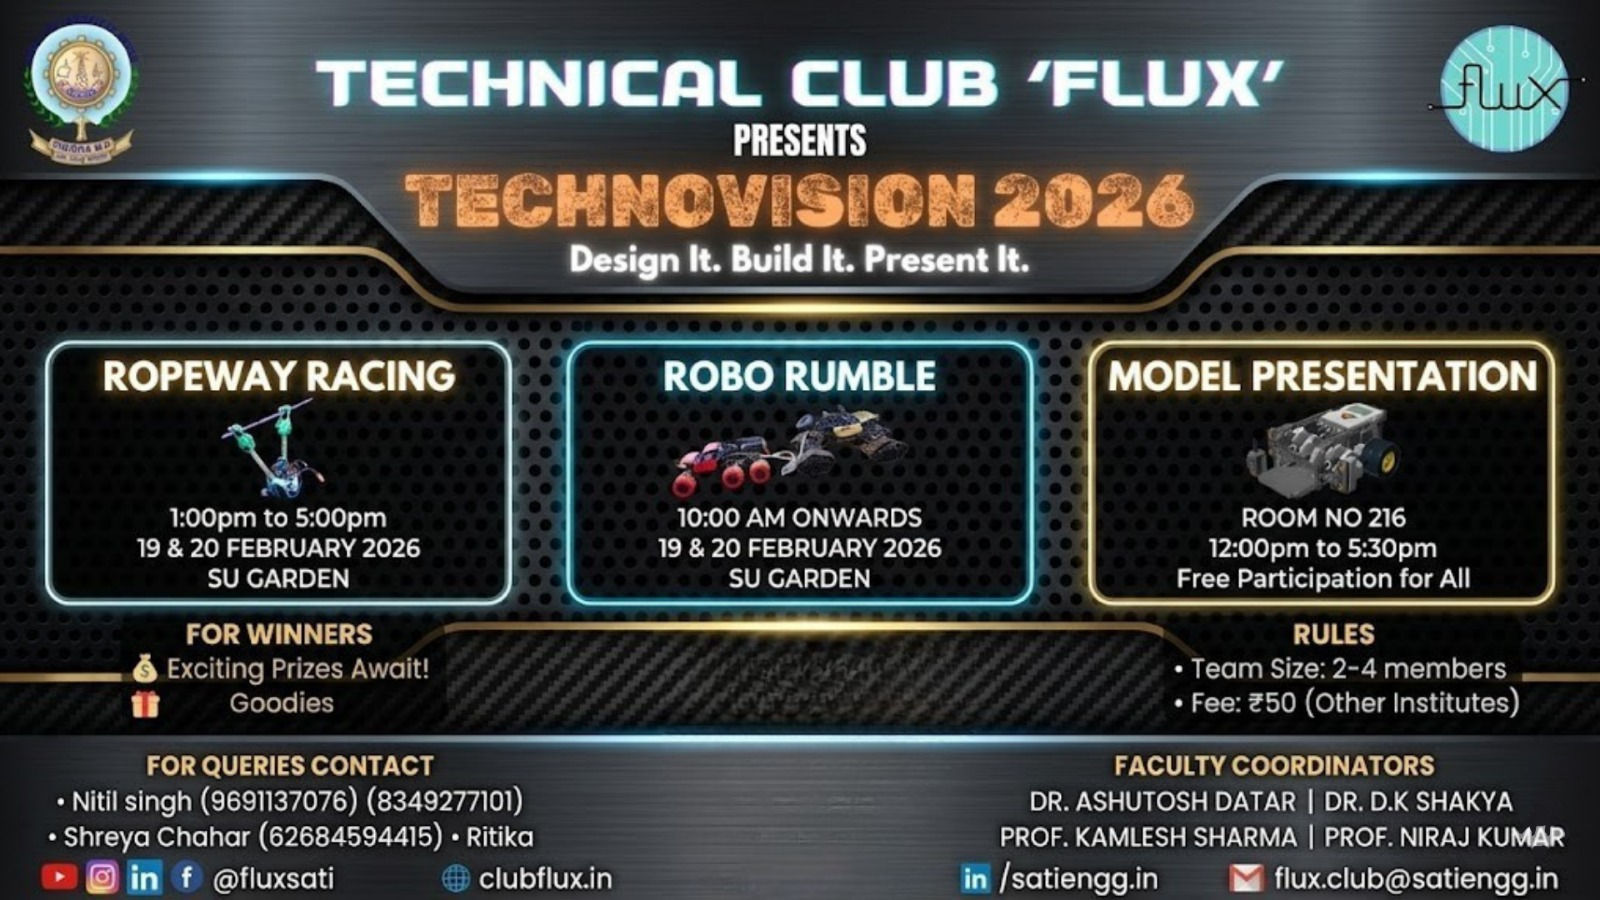
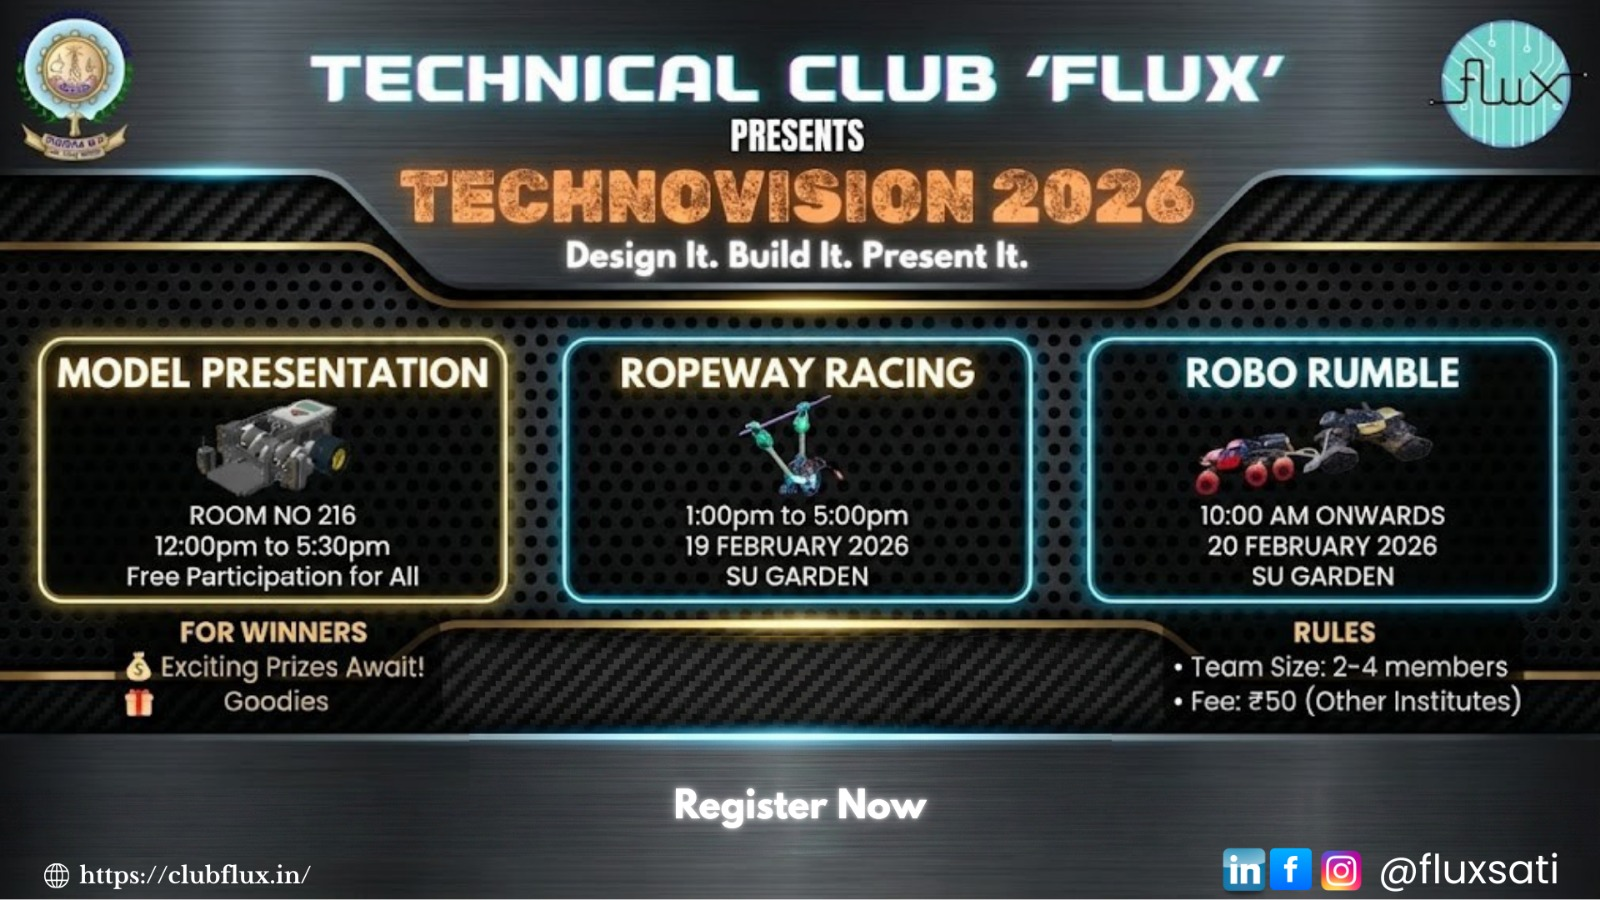
feat: Implement new 'Events' and 'Technovision 2026' pages and gallery data.

diff --git a/src/pages/Technovision_26.jsx b/src/pages/Technovision_26.jsx
@@ -13,8 +13,34 @@ import bannerRopeway from '../assets/events/technovision_2026/1.png';
 import bannerRobo from '../assets/events/technovision_2026/2.png';
 import bannerModel from '../assets/events/technovision_2026/3.png';
 import roboIcon from '../assets/events/technovision_2026/robo_rumble_icon.webp';
+// import roboIcon from '../assets/events/technovision_2026/robo_rumble_icon.webp';
+import Typewriter from 'typewriter-effect';
+import { useInView } from 'react-intersection-observer';
 
 
+
+
+const TypingText = ({ content, delay = 20, cursor = '█', className = "" }) => {
+    const { ref, inView } = useInView({
+        triggerOnce: true,
+        threshold: 0.1,
+    });
+
+    return (
+        <div ref={ref} className={`inline-block w-full ${className}`}>
+            {inView ? (
+                <Typewriter
+                    options={{ delay, cursor, wrapperClassName: 'inline-block' }}
+                    onInit={(typewriter) => {
+                        typewriter.typeString(content).start();
+                    }}
+                />
+            ) : (
+                <span className="opacity-0">{content}</span>
+            )}
+        </div>
+    );
+};
 
 const Technovision = () => {
     const [activeTab, setActiveTab] = useState(null); // 'ropeway', 'robo', 'model'
@@ -64,6 +90,29 @@ const Technovision = () => {
     }, [activeTab]);
 
     const events = {
+        model: {
+            id: 'model',
+            title: 'Model Presentation',
+            icon: <Lightbulb size={32} />,
+            banner: bannerModel,
+            registrationLink: 'https://unstop.com/hackathons/flux-hard-wired-10-showcase-samrat-ashok-technological-institute-sati-vidisha-1641988',
+            description: "An innovation-driven technical event where participants present their hardware robots, kits, and working models. The event focuses on structured presentation, technical explanation, and critical evaluation.",
+            rules: [
+                "The project must be hardware-based (working model only) or science-based.",
+                "The project must be safe to operate and must demonstrate a valid technical concept.",
+                "The project must be original. Copied or commercially available ready-made projects may lead to disqualification.",
+                "The use of dangerous materials, chemicals, explosives, or high-risk components is strictly prohibited."
+            ],
+            prizes: [
+                "Winner:Goodies & Certificates",
+                "Participation Certificates for all"
+            ],
+            timeline: [
+                { time: "Registration Deadline", event: "18 Feb 2026" },
+                { time: "Presentation", event: "19 Feb 2026" },
+                // { time: "Presentation", event: "Day 1" }
+            ]
+        },
         ropeway: {
             id: 'ropeway',
             title: 'Ropeway Racing',
@@ -84,9 +133,9 @@ const Technovision = () => {
             ],
             timeline: [
                 { time: "Registration Deadline", event: "18 Feb 2026" },
-                { time: "Event Day", event: "19-20 Feb 2026" },
-                { time: "Round-Robin Matches", event: "Day 1" },
-                { time: "Finals", event: "Day 2" }
+                { time: "Round-Robin Matches", event: "19 Feb 2026" },
+                // { time: "Round-Robin Matches", event: "Day 1" },
+                // { time: "Finals", event: "Day 2" }
             ]
         },
         robo: {
@@ -97,10 +146,8 @@ const Technovision = () => {
             registrationLink: 'https://unstop.com/p/roborumble-samrat-ashok-technological-institute-1641998',
             description: "An intensive hardware-focused competition where students create robots to navigate varying terrains and specialized hurdles. The competition track features unique obstacles and technical challenges.",
             rules: [
-                "Bots must be capable of traversing rough terrain.",
-                "Technical inspection will be conducted before the event.",
-                "Time limit constraints apply for each round.",
-                "Safety gears are mandatory for bot handling."
+                "Weight of the bot should not exceed 1.5 kg. The bot must be able to fit in a maximum dimension of length 20cm x breadth 20cm x height 15cm. 0% error for each dimension will not be tolerated.",
+                "Voltage difference between two points in the bot should not be greater than 12 V and (only one 12v battery pack is allowed)."
             ],
             prizes: [
                 "Winner: Certificates & Special Gifts",
@@ -108,34 +155,12 @@ const Technovision = () => {
             ],
             timeline: [
                 { time: "Registration Deadline", event: "18 Feb 2026" },
-                { time: "Event Day", event: "19-20 Feb 2026" },
-                { time: "Inspection", event: "Day 1 Morning" },
-                { time: "Rounds", event: "Day 1 Afternoon" }
+                { time: "Event Day", event: "20 Feb 2026" },
+                // { time: "Inspection", event: "Day 1 Morning" },
+                // { time: "Rounds", event: "Day 1 Afternoon" }
             ]
         },
-        model: {
-            id: 'model',
-            title: 'Model Presentation',
-            icon: <Lightbulb size={32} />,
-            banner: bannerModel,
-            registrationLink: 'https://unstop.com/hackathons/flux-hard-wired-10-showcase-samrat-ashok-technological-institute-sati-vidisha-1641988',
-            description: "An innovation-driven technical event where participants present their hardware robots, kits, and working models. The event focuses on structured presentation, technical explanation, and critical evaluation.",
-            rules: [
-                "Maximum team size: 4 members.",
-                "Minimum team size: 1 member.",
-                "Projects must be hardware-based (robots, kits, or working models).",
-                "School students in Vidisha are also eligible."
-            ],
-            prizes: [
-                "Winner:Goodies & Certificates",
-                "Participation Certificates for all"
-            ],
-            timeline: [
-                { time: "Registration Deadline", event: "18 Feb 2026" },
-                { time: "Event Day", event: "19-20 Feb 2026" },
-                { time: "Presentation", event: "Day 1 & 2" }
-            ]
-        }
+
     };
 
     const currentEvent = activeTab ? events[activeTab] : null;
@@ -255,12 +280,15 @@ const Technovision = () => {
                         </motion.div>
 
                         <div className="space-y-8">
-                            <h2 className="text-4xl font-bold uppercase tracking-tight">
+                            <h2 className="text-4xl font-black italic uppercase tracking-tighter">
                                 Quick <span className="text-cyan-500">Overview</span>
                             </h2>
-                            <p className="text-lg text-slate-600 dark:text-slate-300 leading-relaxed text-justify">
-                                Technovision 2026 is the premier technical fest of Samrat Ashok Technological Institute, organized by the Technical Club 'Flux'. It brings together the brightest minds to compete in high-octane robotics and innovation challenges. Witness the clash of metal and code in Ropeway Racing, Robo Rumble, and Model Presentation.
-                            </p>
+                            <div className="text-lg text-slate-600 dark:text-slate-300 leading-relaxed text-justify">
+                                <TypingText
+                                    content="Technovision 2026 is the premier technical fest of Samrat Ashok Technological Institute, organized by the Technical Club 'Flux'. It brings together the brightest minds to compete in high-octane robotics and innovation challenges. Witness the clash of metal and code in Ropeway Racing, Robo Rumble, and Model Presentation."
+                                    delay={10}
+                                />
+                            </div>
 
                             <div className="grid grid-cols-2 gap-4">
                                 <div className="p-4 bg-white dark:bg-white/5 rounded-2xl border border-slate-200 dark:border-white/10">
@@ -400,16 +428,16 @@ const Technovision = () => {
                                         {/* Left Column: Description & Rules */}
                                         <div className="space-y-8">
                                             <div>
-                                                <h3 className="text-xl font-black uppercase tracking-wider text-cyan-500 mb-4 flex items-center gap-2">
+                                                <h3 className="text-xl font-black italic uppercase tracking-wider text-cyan-500 mb-4 flex items-center gap-2">
                                                     <Info size={20} /> About Event
                                                 </h3>
-                                                <p className="text-slate-600 dark:text-gray-400 leading-relaxed text-lg">
-                                                    {currentEvent.description}
-                                                </p>
+                                                <div className="text-slate-600 dark:text-gray-400 leading-relaxed text-lg">
+                                                    <TypingText content={currentEvent.description} delay={15} />
+                                                </div>
                                             </div>
 
                                             <div>
-                                                <h3 className="text-xl font-black uppercase tracking-wider text-cyan-500 mb-4 flex items-center gap-2">
+                                                <h3 className="text-xl font-black italic uppercase tracking-wider text-cyan-500 mb-4 flex items-center gap-2">
                                                     <Bot size={20} /> Key Rules
                                                 </h3>
                                                 <ul className="space-y-3">
@@ -426,27 +454,27 @@ const Technovision = () => {
                                         {/* Right Column: Timeline & Prizes */}
                                         <div className="space-y-8">
                                             <div className="bg-slate-50 dark:bg-white/5 p-6 rounded-2xl border border-slate-200 dark:border-white/10">
-                                                <h3 className="text-xl font-black uppercase tracking-wider text-cyan-500 mb-6 flex items-center gap-2">
+                                                <h3 className="text-xl font-black italic uppercase tracking-wider text-cyan-500 mb-6 flex items-center gap-2">
                                                     <Clock size={20} /> Event Timeline
                                                 </h3>
                                                 <div className="space-y-4">
                                                     {currentEvent.timeline.map((item, idx) => (
                                                         <div key={idx} className="flex justify-between items-center border-b border-slate-200 dark:border-white/5 last:border-0 pb-3 last:pb-0">
-                                                            <span className="text-slate-500 dark:text-slate-400 font-mono text-sm">{item.event}</span>
-                                                            <span className="font-bold text-slate-900 dark:text-white">{item.time}</span>
+                                                            <span className="text-slate-500 dark:text-slate-400 font-mono text-sm text-left">{item.event}</span>
+                                                            <span className="font-bold text-slate-900 dark:text-white text-right">{item.time}</span>
                                                         </div>
                                                     ))}
                                                 </div>
                                             </div>
 
                                             <div className="bg-gradient-to-br from-amber-500/10 to-transparent p-6 rounded-2xl border border-amber-500/20">
-                                                <h3 className="text-xl font-black uppercase tracking-wider text-amber-500 mb-6 flex items-center gap-2">
+                                                <h3 className="text-xl font-black italic uppercase tracking-wider text-amber-500 mb-6 flex items-center gap-2">
                                                     <Trophy size={20} /> Prize Pool
                                                 </h3>
                                                 <ul className="space-y-3">
                                                     {currentEvent.prizes.map((prize, idx) => (
-                                                        <li key={idx} className="flex items-center gap-3 text-slate-700 dark:text-amber-100/80">
-                                                            <Trophy size={14} className="text-amber-500" />
+                                                        <li key={idx} className="flex items-start gap-3 text-slate-700 dark:text-amber-100/80">
+                                                            <Trophy size={14} className="text-amber-500 mt-1 shrink-0" />
                                                             {prize}
                                                         </li>
                                                     ))}
@@ -463,12 +491,12 @@ const Technovision = () => {
 
                 {/* FAQs Section */}
                 <section className="max-w-4xl mx-auto px-6 py-20 border-t border-slate-200 dark:border-white/10">
-                    <h2 className="text-3xl font-black uppercase tracking-tight text-center mb-12">
+                    <h2 className="text-3xl font-black italic uppercase tracking-tight text-center mb-12">
                         Frequently Asked <span className="text-cyan-500">Questions</span>
                     </h2>
                     <div className="space-y-4">
                         {[
-                            { q: "Is there any registration fee?", a: "Yes, there is a some amount of registration fee for other students but for SATI students it is free." },
+                            { q: "Is there any registration fee?", a: "Yes, there is of some amount of registration fee for other students but for SATI students it is free. There is no fee for Model Presentation." },
                             { q: "Can I participate in multiple events?", a: "Yes, you can participate in multiple events as long as the schedules do not clash. Please check the timeline." },
                             { q: "Are teams from other colleges allowed?", a: "Yes, Technovision 2026 welcomes participation from other institutes and schools." },
                             { q: "Will certificates be provided?", a: "Yes, all participants will receive certificates of participation, and winners will get certificates and goodies." }

diff --git a/src/pages/BehindFlux.jsx b/src/pages/BehindFlux.jsx
@@ -78,12 +78,12 @@ const BehindFlux = () => {
 
   return (
     <div id="behind-flux" className="relative min-h-screen w-full bg-white dark:bg-[#030303] text-slate-900 dark:text-white font-sans py-12 lg:py-24 overflow-x-hidden border-t border-slate-200 dark:border-white/5 transition-colors duration-500">
-      
-      <div className="hidden lg:block absolute inset-0 z-0 pointer-events-none opacity-10" 
-           style={{ backgroundImage: 'linear-gradient(#06b6d4 1px, transparent 1px), linear-gradient(90deg, #06b6d4 1px, transparent 1px)', backgroundSize: '60px 60px' }} />
+
+      <div className="hidden lg:block absolute inset-0 z-0 pointer-events-none opacity-10"
+        style={{ backgroundImage: 'linear-gradient(#06b6d4 1px, transparent 1px), linear-gradient(90deg, #06b6d4 1px, transparent 1px)', backgroundSize: '60px 60px' }} />
 
       <div className="relative z-10 max-w-6xl mx-auto px-6">
-        
+
         <header className="mb-12 lg:mb-20 space-y-4 text-center lg:text-left">
           <div className="flex items-center justify-center lg:justify-start gap-4">
             <div className="h-[2px] w-8 lg:w-12 bg-cyan-500" />
@@ -133,7 +133,7 @@ const BehindFlux = () => {
               </div>
               <span className="text-[9px] font-mono text-white/40 uppercase tracking-widest">Live_Terminal_Feed</span>
             </div>
-            
+
             <div className="p-4 sm:p-6 font-mono text-[10px] sm:text-xs md:text-sm text-cyan-400 space-y-4">
               {recentNews.map((news, index) => (
                 <div key={index} className="flex gap-3 items-start">
@@ -151,9 +151,9 @@ const BehindFlux = () => {
                   <div className="group/link">
                     <span className="text-white/20 mr-3">04</span>
                     <span className="text-white">flux_user@system:~$ view --members</span>
-                    <a 
-                      href="/fluxmembers.pdf" 
-                      target="_blank" 
+                    <a
+                      href="/fluxmembers.pdf"
+                      target="_blank"
                       rel="noopener noreferrer"
                       className="mt-2 flex items-center gap-3 w-fit bg-cyan-500/10 border border-cyan-500/30 px-4 py-2 text-cyan-400 hover:bg-cyan-500 hover:text-white transition-all rounded-sm group"
                     >
@@ -163,7 +163,7 @@ const BehindFlux = () => {
                   </div>
 
                   {/* Attendance Sheet Link */}
-                  
+
                 </div>
               </div>
 

diff --git a/src/pages/Events.jsx b/src/pages/Events.jsx
@@ -88,7 +88,7 @@ const EventCard = ({ event, index }) => {
           <span className="inline-block bg-cyan-500/10 text-cyan-600 dark:text-cyan-400 text-[9px] font-black px-4 py-1.5 rounded-full border border-cyan-500/20 uppercase tracking-[0.2em]">
             {event.tag}
           </span>
-          <h2 className="text-5xl md:text-6xl lg:text-7xl font-black italic uppercase tracking-tighter leading-none text-slate-900 dark:text-white">
+          <h2 className="text-4xl md:text-6xl lg:text-5xl font-black italic uppercase tracking-tighter leading-none text-slate-900 dark:text-white">
             {event.title}
           </h2>
         </div>
@@ -282,7 +282,7 @@ const FluxArchive = () => {
             initial={{ opacity: 0, y: 30 }}
             animate={{ opacity: 1, y: 0 }}
             exit={{ opacity: 0, y: -30 }}
-            className="space-y-32 md:space-y-52 mb-40"
+            className="space-y-32 md:space-y-20 mb-40"
           >
             {sortedEvents.map((event, i) => (
               <EventCard key={`${activeYear}-${i}`} event={event} index={i} />

diff --git a/src/data/GalleryData.js b/src/data/GalleryData.js
@@ -28,16 +28,10 @@ export const eventPosters = [
     date: "Nov 2025",
     img: poster1 // Local Asset
   },
-
   {
-    title: "Design Symposium",
-    date: "Dec 2025",
-    img: poster3 // Local Asset
-  },
-  {
-    title: "Flux Hard Wired",
+    title: "Technovision 2026",
     date: "Feb 2026",
-    img: poster4 // Local Asset
+    img: poster6 // Local Asset
   },
   {
     title: "Robotics Workshop",
@@ -45,9 +39,17 @@ export const eventPosters = [
     img: poster5 // Local Asset
   },
   {
-    title: "Technovision 2026",
+    title: "Flux Hard Wired",
     date: "Feb 2026",
-    img: poster6 // Local Asset
+    img: poster4 // Local Asset
   },
+  {
+    title: "Design Symposium",
+    date: "Dec 2025",
+    img: poster3 // Local Asset
+  },
+  
+  
+
 
 ];
